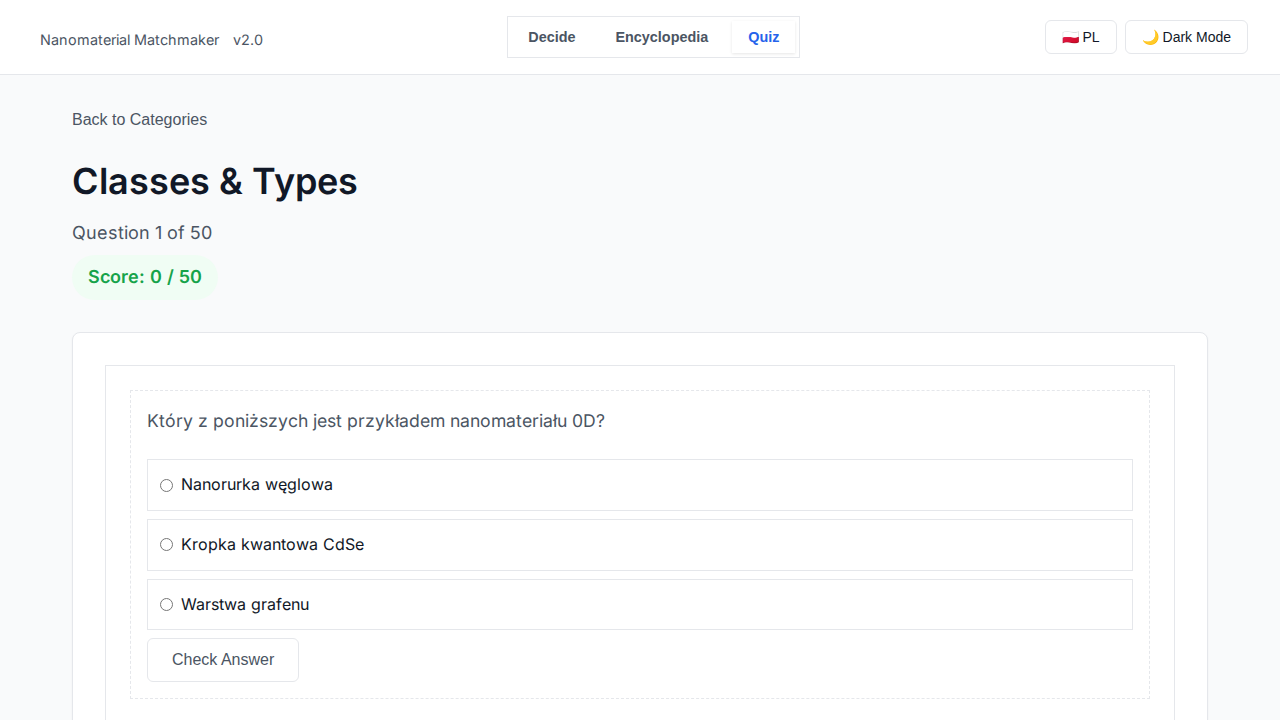
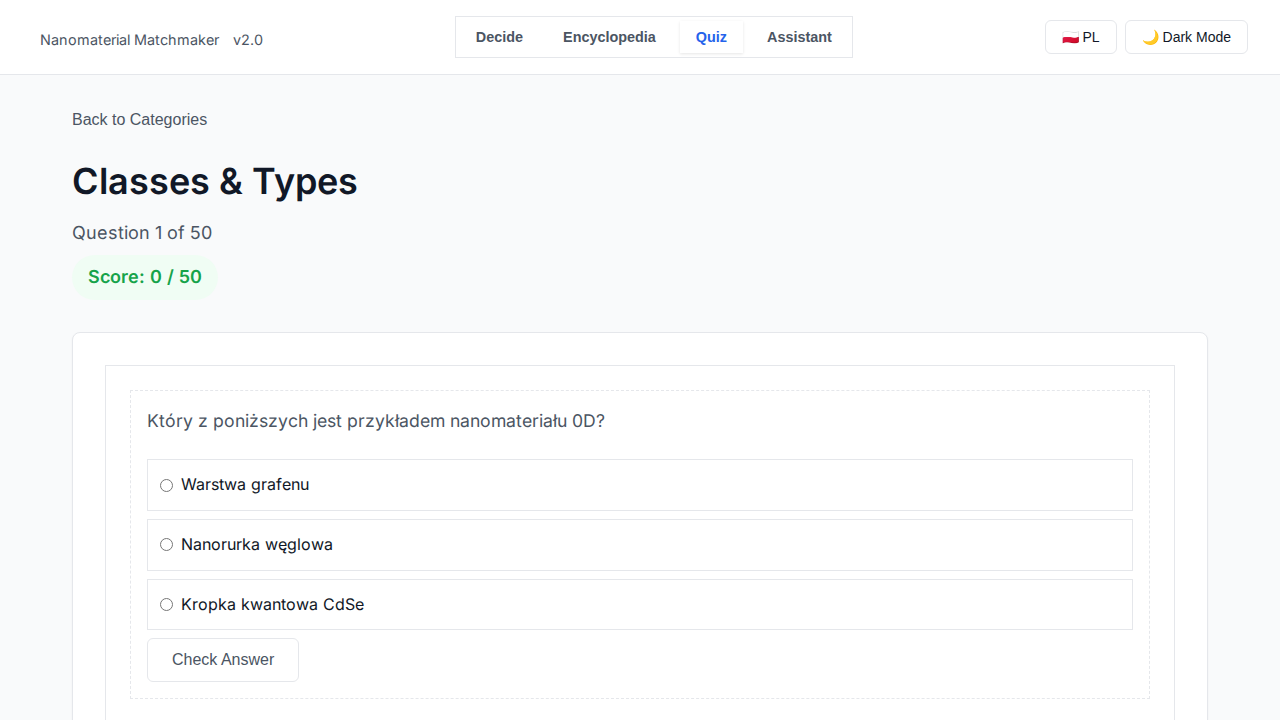
feat: add Jules assistant UI mode
Added a new frontend view for the "Jules" AI assistant, following the system prompt rules defined in `AGENTS.md`.

- Added an "Assistant" navigation button to the global header.
- Implemented forms for both "Diagnostic" (Diagnosta wyników) and "Method Compare" (Porównywarka metod) tasks.
- Constructed a payload generator in `app.js` that accurately matches the schema defined in the system prompt.
- Added a mock response function since the app runs entirely offline without a backend.
- Added bilingual translation keys to `data.js`.
- Updated Playwright test scripts to test the new flow.

diff --git a/app.js b/app.js
@@ -85,6 +85,7 @@ document.addEventListener('DOMContentLoaded', () => {
     const navDecide = document.getElementById('nav-decide');
     const navEncyclopedia = document.getElementById('nav-encyclopedia');
     const btnNavQuiz = document.getElementById('nav-quiz');
+    const btnNavAssistant = document.getElementById('nav-assistant');
     if (navDecide) navDecide.addEventListener('click', () => setGlobalMode('decide'));
     if (navEncyclopedia) navEncyclopedia.addEventListener('click', () => setGlobalMode('encyclopedia'));
 
@@ -92,6 +93,7 @@ document.addEventListener('DOMContentLoaded', () => {
         if (navDecide) navDecide.classList.remove('active');
         if (navEncyclopedia) navEncyclopedia.classList.remove('active');
         if (btnNavQuiz) btnNavQuiz.classList.remove('active');
+        if (btnNavAssistant) btnNavAssistant.classList.remove('active');
 
         if (mode === 'decide') {
             if (navDecide) navDecide.classList.add('active');
@@ -105,11 +107,18 @@ document.addEventListener('DOMContentLoaded', () => {
             if (btnNavQuiz) btnNavQuiz.classList.add('active');
             renderQuizCategories();
             switchView(viewQuizHome);
+        } else if (mode === 'assistant') {
+            if (btnNavAssistant) btnNavAssistant.classList.add('active');
+            switchView(viewAssistant);
         }
     }
 
     if (btnNavQuiz) {
         btnNavQuiz.addEventListener('click', () => setGlobalMode('quiz'));
+    }
+
+    if (btnNavAssistant) {
+        btnNavAssistant.addEventListener('click', () => setGlobalMode('assistant'));
     }
 
     const btnQuizBack = document.getElementById('btn-quiz-back');
@@ -404,6 +413,7 @@ document.addEventListener('DOMContentLoaded', () => {
     /* =================== QUIZ LOGIC =================== */
     const viewQuizHome = document.getElementById('view-quiz-home');
     const viewQuizActive = document.getElementById('view-quiz-active');
+    const viewAssistant = document.getElementById('view-assistant');
     const quizCategoriesContainer = document.getElementById('quiz-categories');
     const btnQuizCheck = document.getElementById('btn-quiz-check');
     const btnQuizNext = document.getElementById('btn-quiz-next');
@@ -571,6 +581,115 @@ document.addEventListener('DOMContentLoaded', () => {
     }
 
 
+    /* =================== ASSISTANT LOGIC =================== */
+    const btnAstDiag = document.getElementById('btn-ast-diagnostic');
+    const btnAstComp = document.getElementById('btn-ast-compare');
+    const formDiag = document.getElementById('ast-form-diagnostic');
+    const formComp = document.getElementById('ast-form-compare');
+    const responseBox = document.getElementById('ast-response-box');
+    const responseContent = document.getElementById('ast-response-content');
+
+    if (btnAstDiag && btnAstComp) {
+        btnAstDiag.addEventListener('click', () => {
+            btnAstDiag.classList.add('active');
+            btnAstComp.classList.remove('active');
+            formDiag.style.display = 'block';
+            formComp.style.display = 'none';
+            responseBox.style.display = 'none';
+        });
+
+        btnAstComp.addEventListener('click', () => {
+            btnAstComp.classList.add('active');
+            btnAstDiag.classList.remove('active');
+            formComp.style.display = 'block';
+            formDiag.style.display = 'none';
+            responseBox.style.display = 'none';
+        });
+    }
+
+    function askJules(payload) {
+        responseBox.style.display = 'block';
+        responseContent.textContent = uiDict.astLoading || "Jules myśli...";
+
+        // Mock backend delay
+        setTimeout(() => {
+            // Mock responses based on the prompt instructions
+            if (payload.mode === 'diagnostic') {
+                responseContent.innerHTML = `Możliwe przyczyny:
+- <b>Nieodpowiednie przygotowanie próbki</b>: Grubość warstwy lub użyty rozpuszczalnik mógł wpłynąć na wynik (częsty problem w ${payload.data.technique}).
+- <b>Artefakty pomiarowe</b>: Szum i dryft baseline'u mogą wynikać ze złej kalibracji lub nieodpowiedniego ustawienia aparatu.
+- <b>Specyfika materiału</b>: ${payload.data.materialType} w formie ${payload.data.sampleForm} często wykazuje takie anomalie.
+
+Co możesz sprawdzić:
+- Zmierz próbkę referencyjną, aby wykluczyć błąd aparatu.
+- Zmień rozcieńczenie lub sposób suszenia.
+- Zweryfikuj parametry pomiaru (np. czas, zakres).
+
+Ograniczenia metody:
+- ${payload.data.technique} ma fizyczne limity rozdzielczości, które mogą ujawniać się w Twojej próbce.
+- Metoda jest wrażliwa na jakość przygotowania próbki.`;
+            } else if (payload.mode === 'method-compare') {
+                responseContent.innerHTML = `Rekomendowana metoda:
+- W Twoim przypadku najlepiej użyć <b>${payload.data.candidates.split(',')[0].trim()}</b>, ponieważ idealnie nadaje się do formy ${payload.data.constraints.sampleForm} w celu uzyskania informacji: ${payload.data.goal}.
+
+Dlaczego nie inne:
+- Pozostałe metody mogą być mniej czułe lub wymagać dłuższego czasu pomiaru, co nie jest optymalne.
+
+Alternatywy:
+- Jeśli nie masz dostępu do rekomendowanej metody, rozważ alternatywy podane w Twoim zapytaniu.`;
+            }
+        }, 1500);
+    }
+
+    const btnSubmitDiag = document.getElementById('btn-ast-diag-submit');
+    if (btnSubmitDiag) {
+        btnSubmitDiag.addEventListener('click', () => {
+            const payload = {
+                mode: "diagnostic",
+                context: {
+                    lang: currentLang,
+                    userLevel: "msc",
+                    track: "nanoengineering"
+                },
+                data: {
+                    technique: document.getElementById('ast-diag-tech').value || "Nieznana",
+                    materialType: document.getElementById('ast-diag-mat').value || "Nieznany",
+                    sampleForm: document.getElementById('ast-diag-form').value,
+                    description: document.getElementById('ast-diag-desc').value || "Brak opisu",
+                    prep: document.getElementById('ast-diag-prep').value || "Brak danych"
+                }
+            };
+            // Log for debug
+            console.log("Jules Payload:", payload);
+            askJules(payload);
+        });
+    }
+
+    const btnSubmitComp = document.getElementById('btn-ast-comp-submit');
+    if (btnSubmitComp) {
+        btnSubmitComp.addEventListener('click', () => {
+            const payload = {
+                mode: "method-compare",
+                context: {
+                    lang: currentLang,
+                    userLevel: "msc",
+                    track: "nanoengineering"
+                },
+                data: {
+                    candidates: document.getElementById('ast-comp-cand').value || "Brak",
+                    goal: document.getElementById('ast-comp-goal').value || "Nie określono",
+                    constraints: {
+                        sampleForm: document.getElementById('ast-comp-form').value
+                    }
+                }
+            };
+            // Log for debug
+            console.log("Jules Payload:", payload);
+            askJules(payload);
+        });
+    }
+
+
     // Initial Render
     initEncyclopediaFilters();
     renderGrid();
@@ -629,7 +748,7 @@ document.addEventListener('DOMContentLoaded', () => {
     /* =================== VIEW MANAGEMENT =================== */
 
     function switchView(targetView) {
-        [viewHome, viewPriority, viewSummary, viewResult, viewCompare, viewLesson, viewEncyclopedia, viewEncyclopediaDetail, viewQuizHome, viewQuizActive].forEach(v => {
+        [viewHome, viewPriority, viewSummary, viewResult, viewCompare, viewLesson, viewEncyclopedia, viewEncyclopediaDetail, viewQuizHome, viewQuizActive, viewAssistant].forEach(v => {
             if (v) v.style.display = 'none';
         });
         targetView.style.display = 'block';

diff --git a/index.html b/index.html
@@ -16,6 +16,7 @@
             <button id="nav-decide" class="nav-btn active" data-i18n="navDecide">Decide</button>
             <button id="nav-encyclopedia" class="nav-btn" data-i18n="navEncyclopedia">Encyclopedia</button>
             <button id="nav-quiz" class="nav-btn" data-i18n="navQuiz">Quiz</button>
+            <button id="nav-assistant" class="nav-btn" data-i18n="navAssistant">Assistant</button>
         </nav>
         <div class="header-actions">
             <button id="lang-toggle" aria-label="Toggle language" data-i18n="langToggle">🇵🇱 PL</button>
@@ -347,6 +348,78 @@
                     <div class="action-bar flex-between">
                         <button id="btn-quiz-next" class="btn-primary" data-i18n="nextQuestion" style="display: none;">Next Question &rarr;</button>
                     </div>
+                </div>
+            </section>
+        </div>
+
+        <!-- Jules Assistant View -->
+        <div id="view-assistant" style="display: none;">
+            <section class="encyclopedia-header" style="margin-bottom: 2rem;">
+                <h2 data-i18n="assistantTitle">AI Assistant (Jules)</h2>
+                <p data-i18n="assistantDesc">Get help diagnosing lab results or comparing characterization methods.</p>
+                <div class="mode-toggle-container" style="margin-top: 1rem;">
+                    <button id="btn-ast-diagnostic" class="mode-btn active" data-i18n="astModeDiagnostic">🧪 Diagnosta Wyników</button>
+                    <button id="btn-ast-compare" class="mode-btn" data-i18n="astModeCompare">⚖ Porównywarka Metod</button>
+                </div>
+            </section>
+
+            <section class="assistant-container card-container">
+                <!-- Diagnostic Form -->
+                <div id="ast-form-diagnostic" class="assistant-form-box">
+                    <div class="form-group">
+                        <label data-i18n="astTechLabel">Technika (np. XRD, Raman, DLS):</label>
+                        <input type="text" id="ast-diag-tech" class="print-input" placeholder="np. Raman">
+                    </div>
+                    <div class="form-group">
+                        <label data-i18n="astMatLabel">Materiał (np. metal oxide, polymer):</label>
+                        <input type="text" id="ast-diag-mat" class="print-input" placeholder="np. TiO2">
+                    </div>
+                    <div class="form-group">
+                        <label data-i18n="astFormLabel">Forma próbki:</label>
+                        <select id="ast-diag-form" class="print-input" style="padding: 0.5rem; border: 1px solid var(--border-color); border-radius: var(--radius-sm); width: 100%;">
+                            <option value="powder">Proszek (Powder)</option>
+                            <option value="thin-film">Cienka warstwa (Thin-film)</option>
+                            <option value="dispersion">Zawiesina (Dispersion)</option>
+                            <option value="bulk">Lita (Bulk)</option>
+                        </select>
+                    </div>
+                    <div class="form-group">
+                        <label data-i18n="astDescLabel">Co jest dziwne? (opis problemu):</label>
+                        <textarea id="ast-diag-desc" rows="3" class="print-input" style="width: 100%; border: 1px solid var(--border-color); padding: 0.5rem;" placeholder="np. ogromny szum i dryft baseline'u"></textarea>
+                    </div>
+                    <div class="form-group">
+                        <label data-i18n="astPrepLabel">Przygotowanie próbki:</label>
+                        <input type="text" id="ast-diag-prep" class="print-input" placeholder="np. suszone na powietrzu, bez sonikacji">
+                    </div>
+                    <button id="btn-ast-diag-submit" class="btn-primary margin-top-md" style="width: 100%;" data-i18n="astBtnAsk">Zapytaj Julesa</button>
+                </div>
+
+                <!-- Compare Form -->
+                <div id="ast-form-compare" class="assistant-form-box" style="display: none;">
+                    <div class="form-group">
+                        <label data-i18n="astCandLabel">Techniki do porównania (np. XRD, Raman):</label>
+                        <input type="text" id="ast-comp-cand" class="print-input" placeholder="XRD, Raman, FTIR">
+                    </div>
+                    <div class="form-group">
+                        <label data-i18n="astGoalLabel">Jaka informacja jest potrzebna?</label>
+                        <input type="text" id="ast-comp-goal" class="print-input" placeholder="np. określenie stopnia krystaliczności">
+                    </div>
+                    <div class="form-group">
+                        <label data-i18n="astFormLabel">Forma próbki:</label>
+                        <select id="ast-comp-form" class="print-input" style="padding: 0.5rem; border: 1px solid var(--border-color); border-radius: var(--radius-sm); width: 100%;">
+                            <option value="powder">Proszek</option>
+                            <option value="thin-film">Cienka warstwa</option>
+                            <option value="dispersion">Zawiesina</option>
+                            <option value="bulk">Lita</option>
+                        </select>
+                    </div>
+                    <button id="btn-ast-comp-submit" class="btn-primary margin-top-md" style="width: 100%;" data-i18n="astBtnAsk">Zapytaj Julesa</button>
+                </div>
+
+                <!-- Response Box -->
+                <div id="ast-response-box" class="lesson-content-box margin-top-md" style="display: none; background: var(--surface-light); border: 1px solid var(--primary-color);">
+                    <h3 data-i18n="astResponseTitle" style="color: var(--primary-color); border-bottom: 1px solid var(--border-color); padding-bottom: 0.5rem; margin-bottom: 1rem;">Odpowiedź Julesa</h3>
+                    <div id="ast-response-content" style="white-space: pre-wrap; font-size: 0.95rem;"></div>
                 </div>
             </section>
         </div>

diff --git a/data.js b/data.js
@@ -98,7 +98,22 @@ const UI_I18N = {
             "podstawy nanonauki": "Fundamentals of Nanoscience",
             "właściwości i zjawiska charakterystyczne nanomateriałów": "Properties & Phenomena",
             "zastosowania nanotechnologii": "Applications"
-        }
+        },
+        "navAssistant": "Assistant",
+        "assistantTitle": "AI Assistant (Jules)",
+        "assistantDesc": "Get help diagnosing lab results or comparing characterization methods.",
+        "astModeDiagnostic": "🧪 Diagnostic Triage",
+        "astModeCompare": "⚖ Method Compare",
+        "astTechLabel": "Technique (e.g., XRD, Raman, DLS):",
+        "astMatLabel": "Material (e.g., metal oxide, polymer):",
+        "astFormLabel": "Sample Form:",
+        "astDescLabel": "What's wrong? (problem description):",
+        "astPrepLabel": "Sample Preparation:",
+        "astCandLabel": "Candidates to compare (e.g., XRD, Raman):",
+        "astGoalLabel": "What information is needed?",
+        "astBtnAsk": "Ask Jules",
+        "astResponseTitle": "Jules's Answer",
+        "astLoading": "Jules is thinking..."
     },
     "pl": {
         "title": "Kreator Nanomateriałów",
@@ -199,7 +214,22 @@ const UI_I18N = {
             "podstawy nanonauki": "Podstawy nanonauki",
             "właściwości i zjawiska charakterystyczne nanomateriałów": "Właściwości i zjawiska",
             "zastosowania nanotechnologii": "Zastosowania nanotechnologii"
-        }
+        },
+        "navAssistant": "Asystent",
+        "assistantTitle": "Asystent AI (Jules)",
+        "assistantDesc": "Uzyskaj pomoc w diagnozowaniu wyników laboratoryjnych lub porównywaniu metod badawczych.",
+        "astModeDiagnostic": "🧪 Diagnosta Wyników",
+        "astModeCompare": "⚖ Porównywarka Metod",
+        "astTechLabel": "Technika (np. XRD, Raman, DLS):",
+        "astMatLabel": "Materiał (np. tlenek metalu, polimer):",
+        "astFormLabel": "Forma próbki:",
+        "astDescLabel": "Co jest dziwne? (opis problemu):",
+        "astPrepLabel": "Przygotowanie próbki:",
+        "astCandLabel": "Techniki do porównania (np. XRD, Raman):",
+        "astGoalLabel": "Jaka informacja jest potrzebna?",
+        "astBtnAsk": "Zapytaj Julesa",
+        "astResponseTitle": "Odpowiedź Julesa",
+        "astLoading": "Jules myśli..."
     }
 };
 

diff --git a/test_script.js b/test_script.js
@@ -10,27 +10,24 @@ const { chromium } = require('playwright');
     // Wait for the app to load
     await page.waitForSelector('#app-grid .app-card:first-child', { state: 'visible', timeout: 30000 });
 
-    // Test: Bookmarks display and click
-    await page.click('#app-grid .app-card:first-child');
-    await page.waitForSelector('#view-priority:visible');
-    // Because there are two .btn-home, use the one inside view-priority
-    await page.click('#view-priority .btn-home');
-    await page.waitForSelector('#view-home:visible');
-    await page.screenshot({ path: 'bookmarks_view.png' });
-
     // Test: Encyclopedia Mode (Material Data Browser)
-    await page.click('#nav-encyclopedia');
-    await page.waitForSelector('#view-encyclopedia:visible');
+    await page.click('#nav-encyclopedia', { force: true });
+    await page.waitForSelector('#view-encyclopedia:visible', { timeout: 10000 });
     await page.screenshot({ path: 'encyclopedia_flow.png' });
 
     // Test: Quiz Mode
-    await page.click('#nav-quiz');
-    await page.waitForSelector('#view-quiz-home:visible');
+    await page.click('#nav-quiz', { force: true });
+    await page.waitForSelector('#view-quiz-home:visible', { timeout: 10000 });
 
     // Test: Active Quiz View
-    await page.click('#quiz-categories .app-card:first-child');
-    await page.waitForSelector('#view-quiz-active:visible');
+    await page.click('#quiz-categories .app-card:first-child', { force: true });
+    await page.waitForSelector('#view-quiz-active:visible', { timeout: 10000 });
     await page.screenshot({ path: 'quiz_flow.png' });
+
+    // Test: Assistant Mode
+    await page.click('#nav-assistant', { force: true });
+    await page.waitForSelector('#view-assistant:visible', { timeout: 10000 });
+    await page.screenshot({ path: 'assistant_flow.png' });
 
     await browser.close();
 })();
